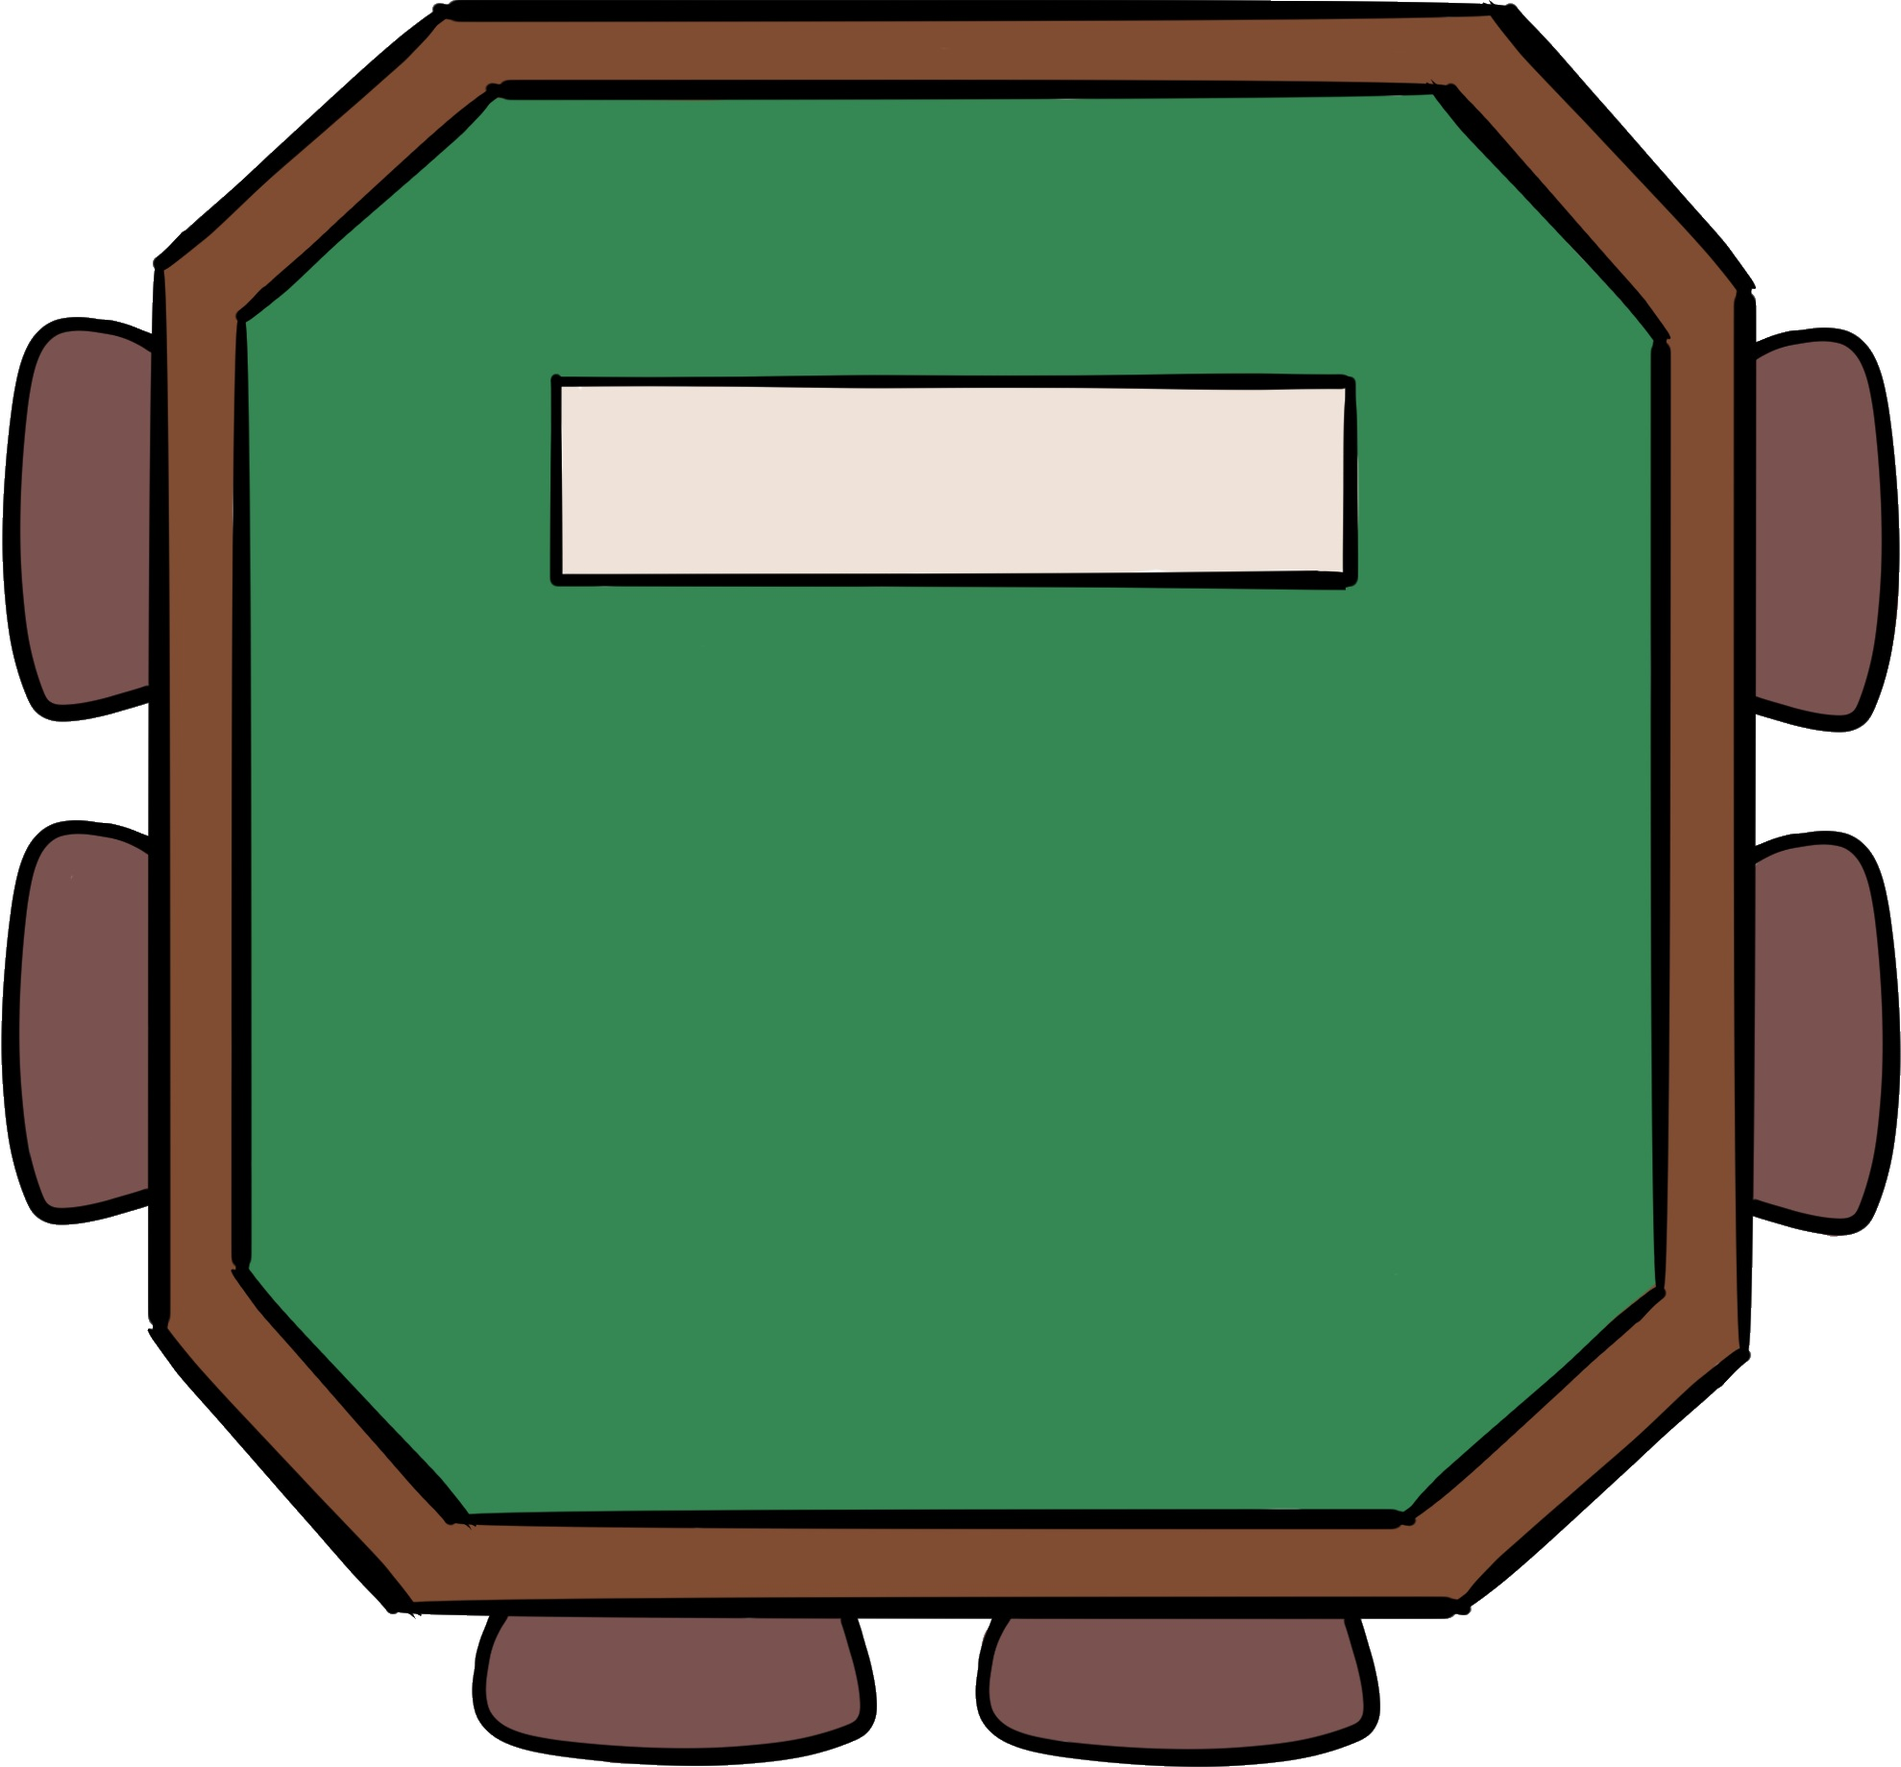
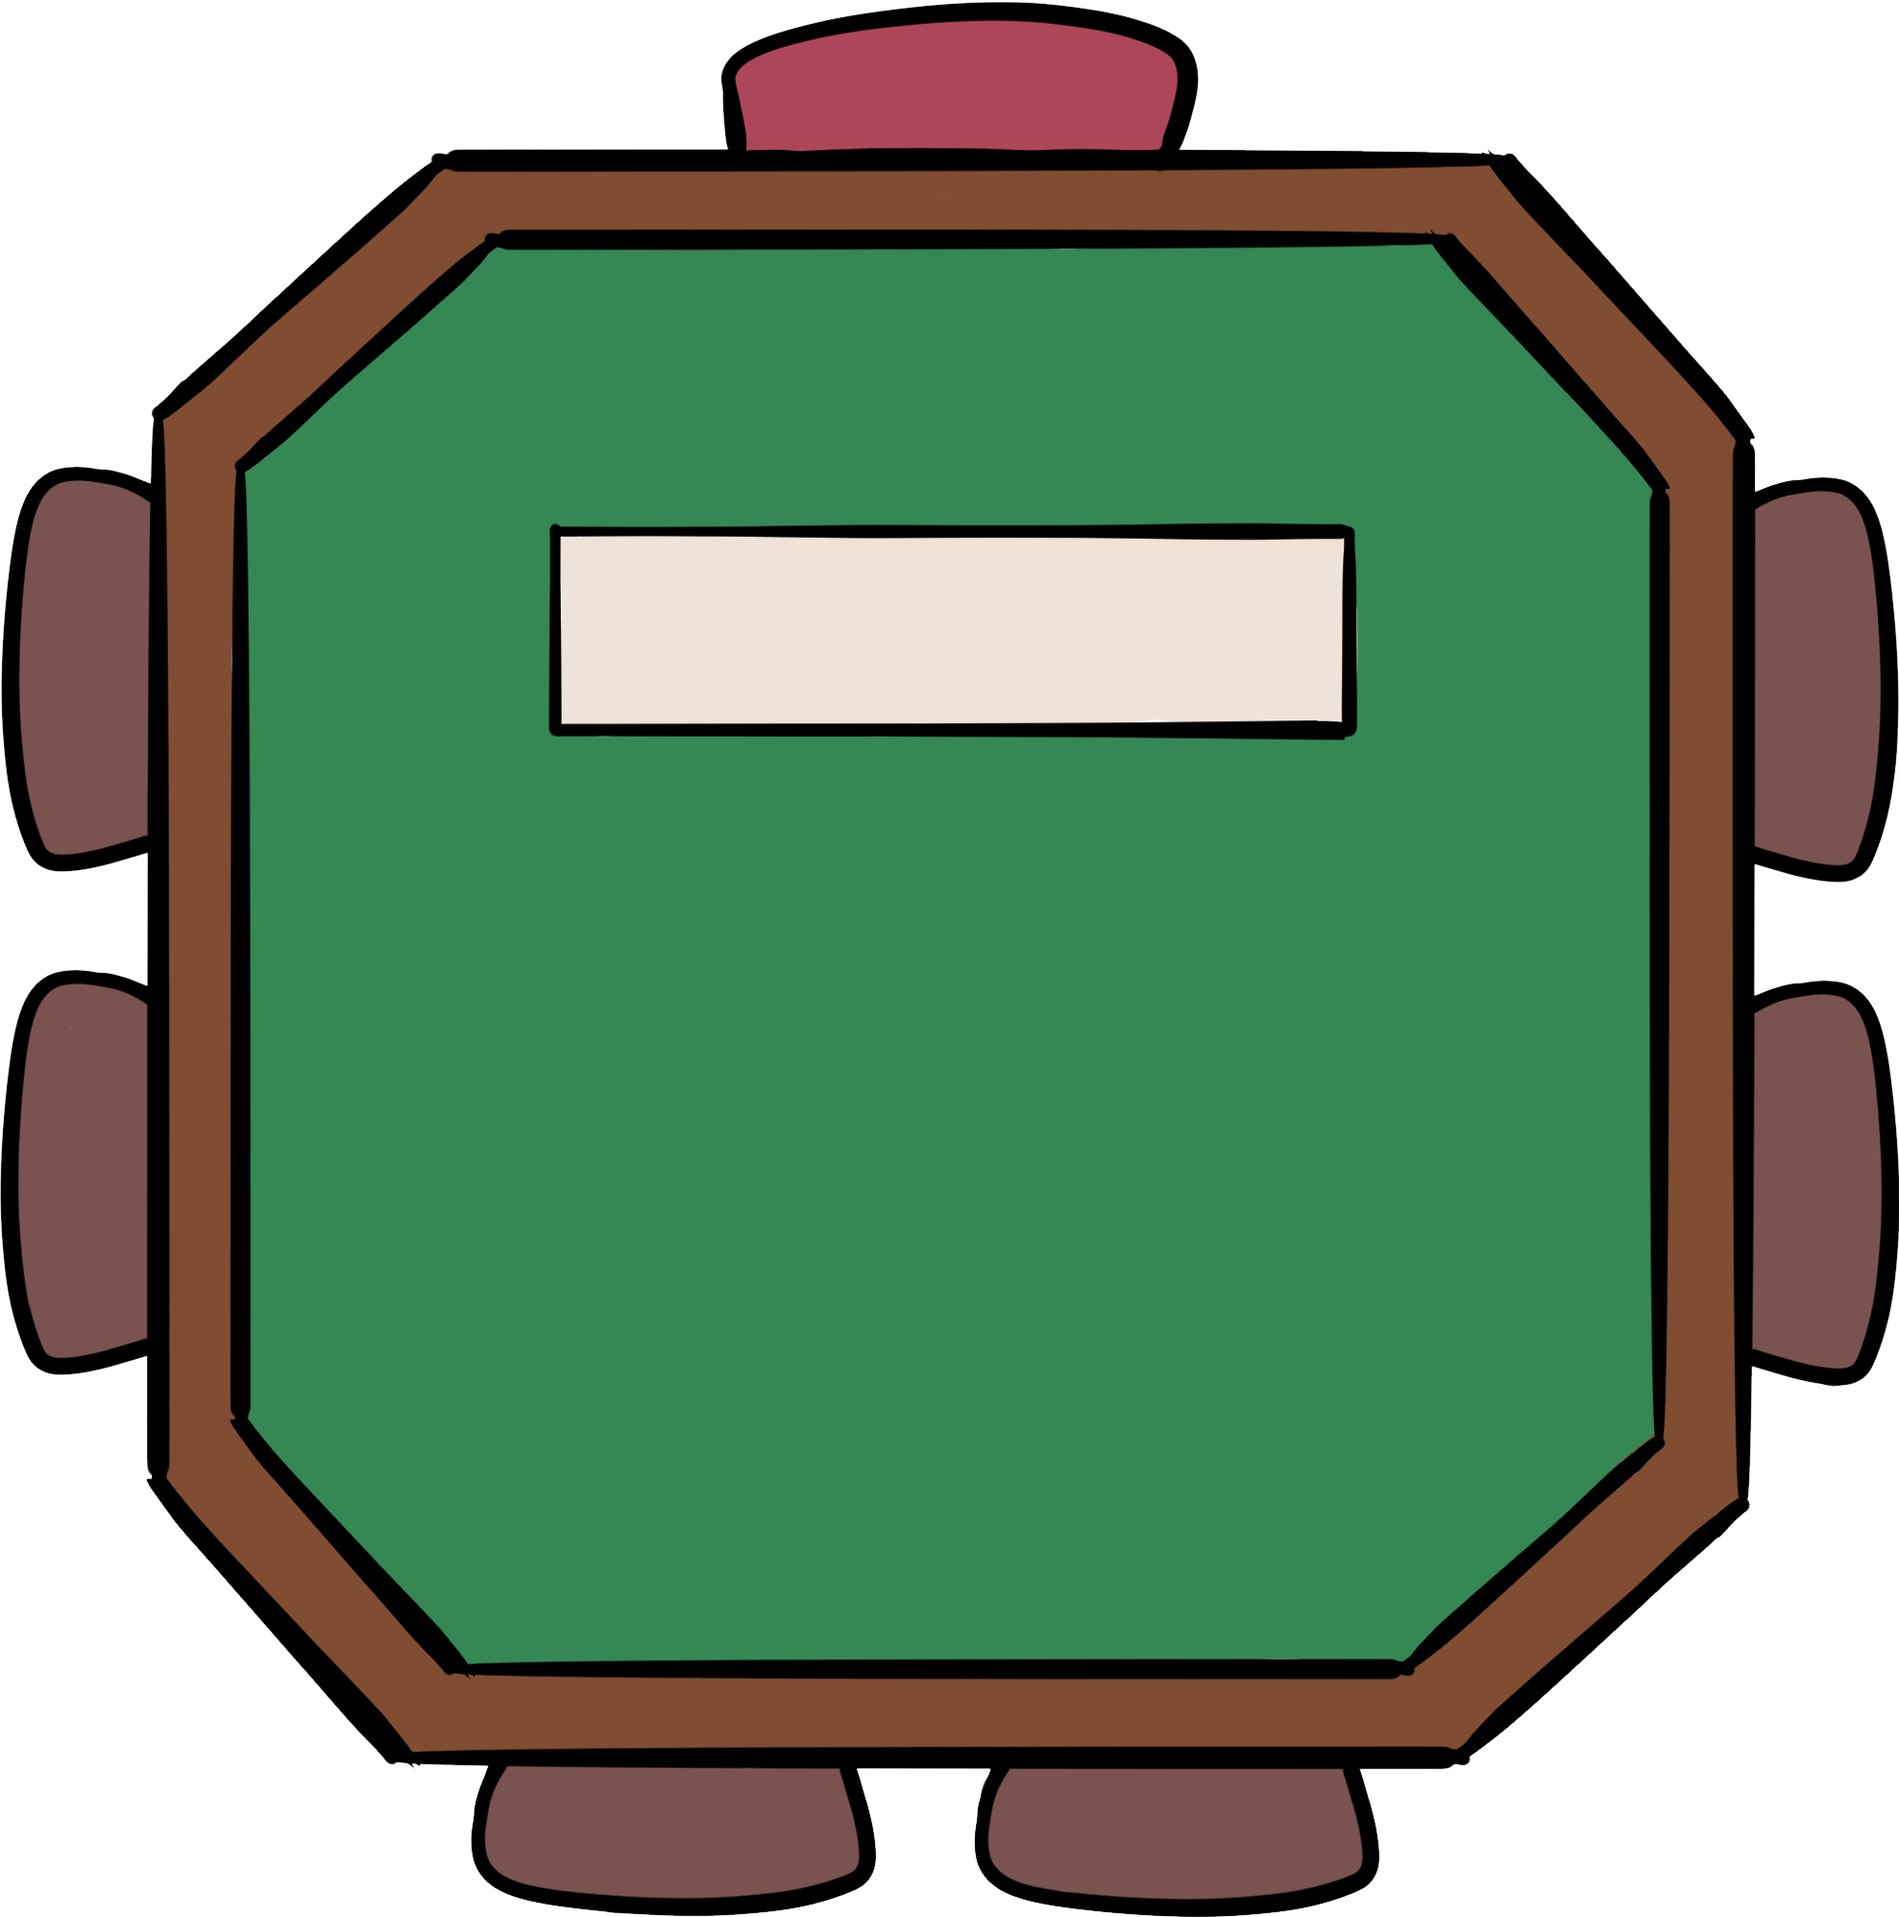
looks updates on GameMenuPage

diff --git a/Poker With Your Friends/View/Pages/GameMenuPage.xaml b/Poker With Your Friends/View/Pages/GameMenuPage.xaml
@@ -11,13 +11,16 @@
     xmlns:ViewModel="using:Poker_With_Your_Friends.ViewModel"
     mc:Ignorable="d">
 
+    <!--
+    Table tempalte
+    -->
     <Page.Resources>
         <DataTemplate x:Key="TableItemTemplate" x:DataType="Model:Table">
             <Grid Height="400" Width="400">
                 <Image Source="/Assets/Table.png" />
-                <TextBlock Text="{x:Bind Name, Mode=OneWay}" VerticalAlignment="Top" HorizontalAlignment="Center" FontSize="28" Foreground="Red" Margin="0,90,0,0" MaxWidth="165"/>
+                <TextBlock Text="{x:Bind Name, Mode=OneWay}" VerticalAlignment="Top" HorizontalAlignment="Center" FontSize="28" Foreground="Red" Margin="0,110,0,0" MaxWidth="165"/>
                 <StackPanel Padding="10" VerticalAlignment="Center" HorizontalAlignment="Center">
-                    <TextBlock FontSize="18" Margin="0,50,0,0">
+                    <TextBlock FontSize="18" Margin="0,70,0,0">
                         <Run Text="{x:Bind Model:Utils.NumberToOrdinalNumber(Round), Mode=OneWay}"/>
                         <Run Text=" Round"/>
                         <LineBreak/>
@@ -39,7 +42,7 @@
             <Grid Height="400" Width="400">
                 <Image Source="/Assets/Table.png" Opacity="0.65"/>
                 <TextBox Text="{x:Bind Owner.NewTableName, Mode=TwoWay, UpdateSourceTrigger=PropertyChanged}" PlaceholderText="Table name" VerticalAlignment="Top"
-                         HorizontalAlignment="Center" FontSize="28" Foreground="Red" Margin="0,90,0,0" Width="165" KeyDown="NewTableNameTextBox_KeyDown"/>
+                         HorizontalAlignment="Center" FontSize="28" Foreground="Red" Margin="0,110,0,0" Width="165" KeyDown="NewTableNameTextBox_KeyDown"/>
                 <Button Content="+ Create table" HorizontalAlignment="Center" VerticalAlignment="Center" IsEnabled="{x:Bind Owner.IsNewTableButtonEnabled, Mode=OneWay}" Click="CreateTableButton_Click"/>
             </Grid>
         </DataTemplate>
@@ -51,39 +54,43 @@
     </Page.Resources>
 
     <Grid RequestedTheme="Light">
+        <Grid.Background>
+            <ImageBrush ImageSource="/Assets/Table_Picker_BG.jpg" Stretch="UniformToFill" />
+        </Grid.Background>
         <Grid.RowDefinitions>
-            <RowDefinition Height="Auto"/>
             <RowDefinition Height="Auto"/>
             <RowDefinition Height="*"/>
         </Grid.RowDefinitions>
         <Grid.ColumnDefinitions>
             <ColumnDefinition Width="*" />
         </Grid.ColumnDefinitions>
-        <!--
-        Title
-        -->
-        <TextBlock Text="Game Window" Grid.Column="0" Grid.Row="0" HorizontalAlignment="Center" VerticalAlignment="Top" FontSize="24"/>
 
-        <Border Grid.Column="0" Grid.Row="0" HorizontalAlignment="Right" VerticalAlignment="Center" Background="Beige" Padding="2">
-            <StackPanel Orientation="Horizontal">
-                <StackPanel Spacing="12" Padding="10" Background="Gray">
-                    <Image Width="100" Height="100" Source="{x:Bind Model:Utils.PathToImage(viewModel.PlayerStore.CurrentPlayer.ProfilePictureDir), Mode=OneWay}"/>
-                    <Button Content="Change Profile Picture" Click="PickFileButton_Click" />
+        <!--
+        Player info
+        -->
+        <Border Grid.Column="0" Grid.Row="0" HorizontalAlignment="Right" VerticalAlignment="Center" Background="Beige" Padding="2" BorderBrush="Black" BorderThickness="1" CornerRadius="0,0,0,10">
+            <StackPanel>
+                <StackPanel Orientation="Horizontal">
+                    <StackPanel Spacing="12" Padding="10" >
+                        <Border Width="100" Height="100" CornerRadius="90" BorderBrush="Black" BorderThickness="1">
+                            <Image Source="{x:Bind Model:Utils.PathToImage(viewModel.PlayerStore.CurrentPlayer.ProfilePictureDir), Mode=OneWay}" Stretch="Fill"/>
+                        </Border>
+                    </StackPanel>
+                    <TextBlock FontSize="24" FontWeight="Bold" VerticalAlignment="Center">
+                        <Run Text="{x:Bind viewModel.client.PlayerStore.CurrentPlayer.Name, Mode=OneWay}"/>
+                        <LineBreak/>
+                        <Run Text="Chips: "/>
+                        <Run Text="{x:Bind viewModel.client.PlayerStore.CurrentPlayer.Chips, Mode=OneWay}"/>
+                    </TextBlock>
                 </StackPanel>
-                <TextBlock FontSize="24" FontWeight="Bold">
-                    <Run Text="Hi, "/>
-                    <Run Text="{x:Bind viewModel.client.PlayerStore.CurrentPlayer.Name, Mode=OneWay}"/>
-                    <LineBreak/>
-                    <Run Text="Chips: "/>
-                    <Run Text="{x:Bind viewModel.client.PlayerStore.CurrentPlayer.Chips, Mode=OneWay}"/>
-                </TextBlock>
+                <Button Content="Change Profile Picture" Click="PickFileButton_Click" />
             </StackPanel>
         </Border>
 
         <!--
         Tables grid
         -->
-        <GridView Grid.Row="2" ItemsSource="{x:Bind viewModel.TableMenuItems, Mode=OneWay}" ItemClick="Table_ItemClick" IsItemClickEnabled="True" ItemTemplateSelector="{StaticResource GameMenuItemTemplateSelector}" VerticalAlignment="Center" HorizontalAlignment="Center">
+        <GridView Grid.Row="1" ItemsSource="{x:Bind viewModel.TableMenuItems, Mode=OneWay}" ItemClick="Table_ItemClick" IsItemClickEnabled="True" ItemTemplateSelector="{StaticResource GameMenuItemTemplateSelector}" VerticalAlignment="Center" HorizontalAlignment="Center">
             <GridView.ItemsPanel>
                 <ItemsPanelTemplate>
                     <ItemsWrapGrid Orientation="Horizontal" MaximumRowsOrColumns="4" />
